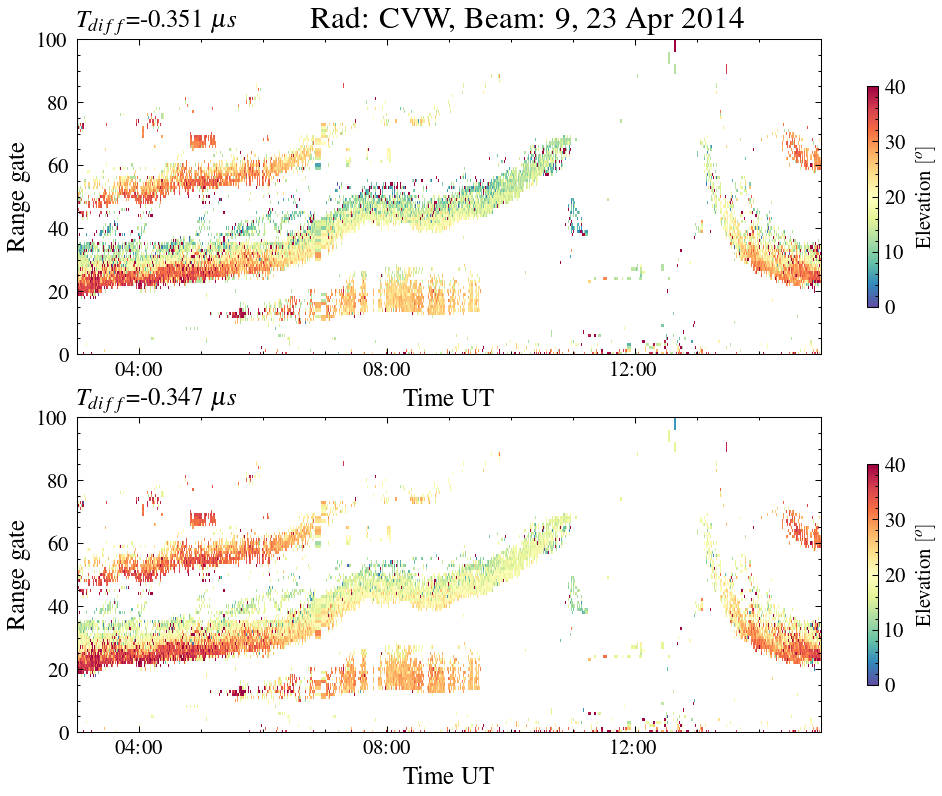
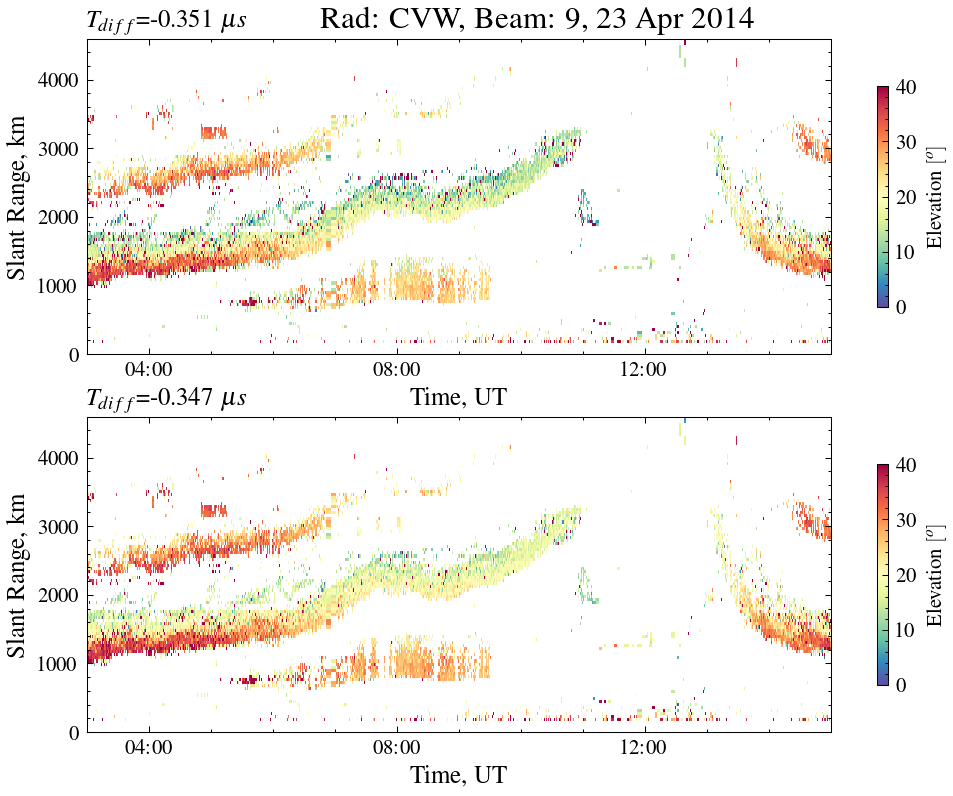
Calculate Elevation angle bug

diff --git a/py/plotlib.py b/py/plotlib.py
@@ -81,11 +81,11 @@ class RangeTimeIntervalPlot(object):
         matplotlib.rcParams.update({"font.size": 10})
         return
     
-    def addParamPlot(self, df, beam, title, p_max=40, p_min=0, p_step=8, xlabel="Time UT", zparam="elv0",
+    def addParamPlot(self, df, beam, title, p_max=40, p_min=0, p_step=8, xlabel="Time, UT", zparam="elv0",
                     label=r"Elevation $[^o]$"):
         ax = self._add_axis()
         df = df[df.bmnum==beam]
-        X, Y, Z = get_gridded_parameters(df, xparam="mdates", yparam="slist", zparam=zparam, rounding=False)
+        X, Y, Z = get_gridded_parameters(df, xparam="mdates", yparam="srange", zparam=zparam, rounding=False)
         bounds = list(range(p_min, p_max+1, p_step))
         cmap = plt.cm.Spectral_r
         norm = matplotlib.colors.BoundaryNorm(bounds, cmap.N)
@@ -94,8 +94,8 @@ class RangeTimeIntervalPlot(object):
         ax.xaxis.set_major_locator(hours)
         ax.set_xlabel(xlabel, fontdict={"size":12, "fontweight": "bold"})
         ax.set_xlim([self.unique_times[0], self.unique_times[-1]])
-        ax.set_ylim([0, self.nrang])
-        ax.set_ylabel("Range gate", fontdict={"size":12, "fontweight": "bold"})
+        ax.set_ylim([0, np.max(df.srange)])
+        ax.set_ylabel("Slant Range, km", fontdict={"size":12, "fontweight": "bold"})
         im = ax.pcolormesh(X, Y, Z.T, lw=0.01, edgecolors="None", cmap=cmap, vmax=p_max, vmin=p_min)
         cb = self.fig.colorbar(im, ax=ax, shrink=0.7)
         cb.set_label(label)
@@ -134,4 +134,68 @@ class RangeTimeIntervalPlot(object):
     def close(self):
         self.fig.clf()
         plt.close()
+        return
+    
+
+class Histogram2D(object):
+    """
+    Histograms for IS and GS
+    """
+    
+    def __init__(self, is_gs_both=0, nrows=1, ncols=1, fig_title=""):
+        self._num_subplots_created = 0
+        self.fig = plt.figure(figsize=(3*ncols, 3*nrows), dpi=180) # Size for website
+        plt.suptitle(fig_title, x=0.5, y=0.9, ha="center", va="center", fontweight="bold", fontsize=15)
+        self.nrows, self.ncols = nrows, ncols
+        return
+    
+    def _add_axis(self):
+        self._num_subplots_created += 1
+        ax = self.fig.add_subplot(self.nrows, self.ncols, self._num_subplots_created)
+        return ax
+    
+    def save(self, filepath):
+        print(f"Save RTI figure to : {filepath}")
+        self.fig.subplots_adjust(hspace=.3, wspace=0.5)
+        self.fig.savefig(filepath, bbox_inches="tight")
+        return
+
+    def close(self):
+        self.fig.clf()
+        plt.close()
+        return
+    
+    def _add_colorbar(self, fig, ax, bounds, colormap, label=""):
+        """
+        Add a colorbar to the right of an axis.
+        """
+        import matplotlib as mpl
+        pos = ax.get_position()
+        cpos = [pos.x1 + 0.025, pos.y0 + 0.0125,
+                0.015, pos.height * 0.9]                # this list defines (left, bottom, width, height
+        cax = fig.add_axes(cpos)
+        norm = mpl.colors.BoundaryNorm(bounds, colormap.N)
+        cb2 = mpl.colorbar.ColorbarBase(cax, cmap=colormap,
+                                        norm=norm,
+                                        ticks=bounds,
+                                        spacing="uniform",
+                                        orientation="vertical")
+        cb2.set_label(label)
+        return
+    
+    def addHistPlot(self, o, title, yl="vh0", xlabel="Slant Rang, km", ylabel="Virtual Height, km",
+                    label=r"Probability"):
+        ax = self._add_axis()
+        cmap = plt.cm.Reds
+        ax.set_xlabel(xlabel, fontdict={"size":12, "fontweight": "bold"})
+        ax.set_ylabel(ylabel, fontdict={"size":12, "fontweight": "bold"})
+        ax.set_xlim([0, 4000])
+        ax.set_ylim([0, 2000])
+        H, xe, ye = np.histogram2d(o.srange, o[yl], bins=50)
+        xe, ye = xe[:-1], ye[:-1]
+        Xe, Ye = np.meshgrid(xe, ye)
+        im = ax.pcolormesh(Xe, Ye, H.T, lw=0.01, edgecolors="None", cmap=cmap)
+        cb = self.fig.colorbar(im, ax=ax, shrink=0.7)
+        cb.set_label(label)
+        ax.set_title(title, loc="left", fontdict={"fontweight": "bold"})
         return

diff --git a/py/analysis.py b/py/analysis.py
@@ -21,32 +21,41 @@ import numpy as np
 import pydarn
 from get_fit_data import FetchData
 import calc_elv
-from plotlib import RangeTimeIntervalPlot as RTI
+from plotlib import RangeTimeIntervalPlot as RTI, Histogram2D
 import matplotlib.dates as mdates
+import calc_vheight as CV
 
-def process_elevation_angle(rad, dates, tdiffs):
+def process_elevation_angle(rad, dates, tdiffs, bm=None, 
+                            tfreq_range=None, gflag=None, hop=None):
     """
     Main process to run Elevaton angle
     """
     fdata = FetchData( rad, dates )
     b, _ = fdata.fetch_data()
     o = fdata.convert_to_pandas(b)
+    o["srange"] = o.frang + (o.rsep*o.slist)
     o.tfreq = np.round(o.tfreq/1e3, 1)
-    bm = 9
     o["mdates"] = o.time.apply(lambda x: mdates.date2num(x))
-    o = o[(o.tfreq>=10.300) & (o.tfreq<=10.8) & (o.gflg==1)]
-    rti = RTI(100, np.array(o.mdates), 
-              "Rad: %s, Beam: %d, %s"%(rad.upper(), bm, dates[0].strftime("%d %b %Y")),
-             num_subplots=len(tdiffs))
+    bm = 9 if (bm==None) else bm
+    hop = 0.5 if (hop==None) else hop
+    if tfreq_range: o = o[(o.tfreq>=tfreq_range[0]) & (o.tfreq<=tfreq_range[1])]
+    if gflag: o = o[(o.gflg==1)]
     hdw = pydarn.read_hdw_file(rad)
     o.tfreq = o.tfreq*1e3
+    figtitle = "Rad: %s, Beam: %d, %s"%(rad.upper(), bm, dates[0].strftime("%d %b %Y"))
+    rti = RTI(100, np.array(o.mdates), figtitle, num_subplots=len(tdiffs))
+    h2d = Histogram2D(nrows=2, fig_title=figtitle)
     for i, tdiff in enumerate(tdiffs):
         o["elv"+str(i)] = calc_elv.caclulate_elevation_angle(np.array(o.phi0), np.array(o.bmnum),
                                                              np.array(o.tfreq), hdw, tdiff)
+        o["vh"+str(i)] = CV.calculate_vHeight(np.array(o.srange), np.array(o["elv"+str(i)]), hop=hop)
         tdiff = hdw.tdiff if tdiff is None else tdiff
-        ax, im = rti.addParamPlot(o, bm, r"$T_{diff}$=%.3f $\mu s$"%tdiff, zparam="elv"+str(i))
+        rti.addParamPlot(o, bm, r"$T_{diff}$=%.3f $\mu s$"%tdiff, zparam="elv"+str(i))
+        h2d.addHistPlot(o, r"$T_{diff}$=%.3f $\mu s$"%tdiff)
     rti.save("tmp/elevation.png")
     rti.close()
+    h2d.save("tmp/2d-hist.png")
+    h2d.close()
     return
 
 if __name__ == "__main__":
@@ -54,5 +63,6 @@ if __name__ == "__main__":
     rad = "cvw"
     dates = [dt.datetime(2014,4,23), dt.datetime(2014,4,23,16)]
     tdiffs = [None, -0.347]
-    process_elevation_angle(rad, dates, tdiffs)
+    tfreq_range, gflag, bm, hop = [10.3, 10.8], 1, 9, 0.5
+    process_elevation_angle(rad, dates, tdiffs, bm, tfreq_range, gflag, hop)
     pass

diff --git a/py/get_fit_data.py b/py/get_fit_data.py
@@ -222,8 +222,9 @@ class FetchData(object):
             if self.verbose: logger.info("Converted to scan data.")
         return _b, _s
     
-    def convert_to_pandas(self, beams, s_params=["bmnum", "noise.sky", "tfreq", "scan", "nrang", "time"],
-            v_params=["v", "w_l", "gflg", "p_l", "slist", "v_e", "phi0", "elv"]):
+    def convert_to_pandas(self, beams, s_params=["bmnum", "noise.sky", "tfreq", "scan", "nrang", 
+                                                 "time", "rsep", "frang"],
+                          v_params=["v", "w_l", "gflg", "p_l", "slist", "v_e", "phi0", "elv"]):
         """
         Convert the beam data into dataframe
         """

diff --git a/py/calc_vheight.py b/py/calc_vheight.py
@@ -3,6 +3,7 @@
    Author: S. Chakraborty
    This file is a v_Height estimator
 """
+import numpy as np
 
 def calculate_vHeight(r, elv, hop, Re = 6371.0):
     """
@@ -14,6 +15,6 @@ def calculate_vHeight(r, elv, hop, Re = 6371.0):
     Re: Earth radius in km
     """
    
-    h = np.sqrt(Re**2 + (r/(2*N))**2 + (r/N)*Re*np.sin(np.radians(elv))) - Re
+    h = np.sqrt(Re**2 + (r/(2*hop))**2 + (r/hop)*Re*np.sin(np.radians(elv))) - Re
       
     return h
